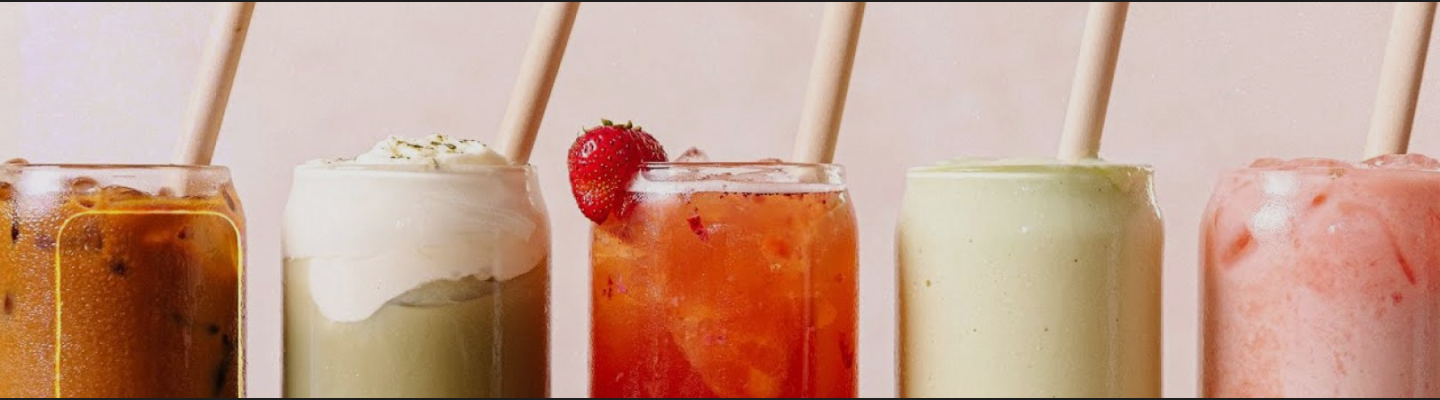
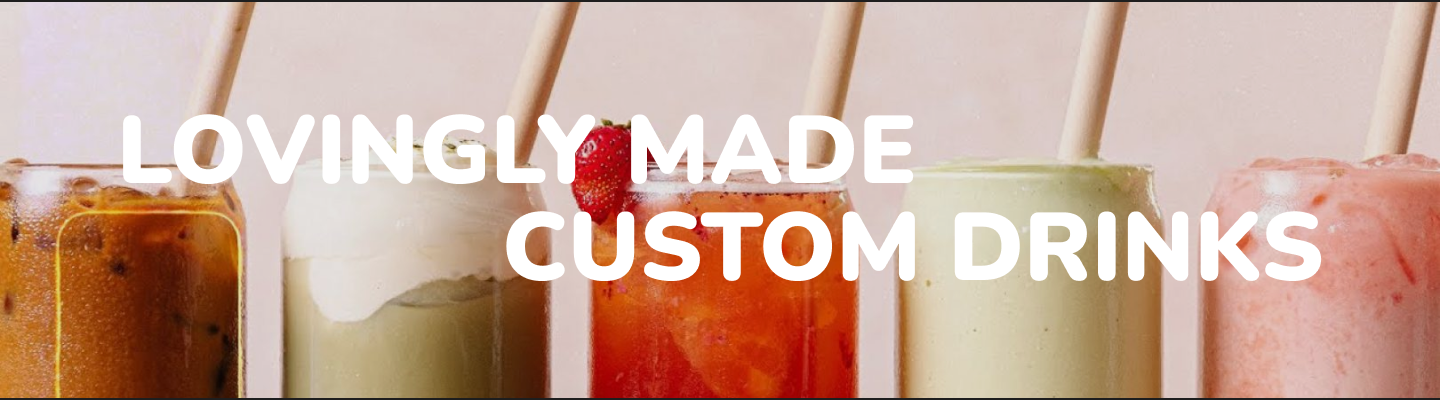
update menu screen

Changed region(s): [[0.3438, 0.51, 0.9375, 0.72], [0.0625, 0.27, 0.6562, 0.48]]

diff --git a/src/pages/Menu.js b/src/pages/Menu.js
@@ -1,9 +1,42 @@
 import styles from '../styles/Menu.module.css'
+import { boba } from '../data/boba'
+
+// COMPONENTS
+import NavBar from '../components/NavBar'
+
+// ASSETS
+import headerImg from '../images/menu/header-img.png'
+import headerDesign from '../images/menu/bg.png'
+import drinkPink from '../images/menu/drink-pink.png'
+import drinkGreen from '../images/menu/drink-green.png'
+import drinkYellow from '../images/menu/drink-yellow.png'
+import Drink from '../components/Drink'
 
 export default function Menu() {
+    const drinks = [drinkPink, drinkGreen, drinkYellow];
+
     return (
         <>
-            <h1>Menu</h1>
+            <NavBar />
+            <div className={styles.menu_container}>
+                <div className={styles.img_container}>
+                    <img src={headerImg} alt='header-img' />
+                    <img src={headerDesign} alt='header-design-img' />
+                </div>
+                <div className={styles.drinks_container}>
+                    {boba.map((data, index) => {
+                        return (
+                            <Drink 
+                                key={index}
+                                index={index}
+                                name={data.name}
+                                desc={data.description}
+                                image={drinks[index]}
+                            />
+                        )
+                    })}
+                </div>
+            </div>
         </>
     )
 }

diff --git a/src/components/Drink/index.js b/src/components/Drink/index.js
@@ -1,0 +1,31 @@
+import styles from './Drink.module.css'
+
+export default function Drink({name, desc, image, index}) {
+    return (
+        <div 
+            className={styles.drink} 
+            style={{ backgroundColor: 
+                index === 0 ? '#FFDF98' :
+                index === 1 ? '#FEC7DB' :
+                index === 2 ? '#B6E2F2' : '#FFDF98'
+            }}
+        >
+            <img src={image} alt={name} />
+            <h3 
+                style={{ color: 
+                    index === 0 ? '#F0BF54' :
+                    index === 1 ? '#E194B0' :
+                    index === 2 ? '#9EC3D0' : '#F0BF54'
+                }}
+            >{name}</h3>
+            <p>{desc}</p>
+            <button 
+                style={{ backgroundColor: 
+                    index === 0 ? '#F0BF54' :
+                    index === 1 ? '#E194B0' :
+                    index === 2 ? '#9EC3D0' : '#F0BF54'
+                }}
+            >SELECT</button>
+        </div>
+    )
+}

diff --git a/src/components/Drink/Drink.module.css b/src/components/Drink/Drink.module.css
@@ -1,0 +1,26 @@
+.drink {
+    padding: 50px 40px;
+    width: 400px;
+    height: 640px;
+    border: 2px solid #1E1E1E;
+    background: var(--color-lightyellow);
+    text-align: center;
+}
+.drink img {
+    width: 100%;
+    margin-top: -110px;
+}
+.drink h3 {
+    margin-top: 20px;
+    font-size: 36px;
+    font-weight: 900;
+    color: var(--color-shadedyellow);
+}
+.drink button {
+    margin-top: 50px;
+    font-size: 16px;
+    font-weight: 600;
+    padding: 13px 45px;
+    border: 2px solid #1E1E1E;
+    background: var(--color-shadedyellow);
+}

diff --git a/src/styles/Menu.module.css b/src/styles/Menu.module.css
@@ -1,0 +1,27 @@
+.menu_container {
+
+}
+.img_container {
+    display: flex;
+    flex-direction: column;
+    position: relative;
+}
+.img_container img {
+    width: 100%;
+}
+.img_container img:first-of-type {
+    height: 400px;
+}
+.img_container img:last-of-type {
+    margin-top: -1px;
+    position: absolute;
+    top: 400px;
+    z-index: -1;
+}
+
+.drinks_container {
+    padding: 200px 80px 80px;
+    display: flex;
+    justify-content: space-evenly;
+    gap: 45px;
+}

diff --git a/src/components/NavBar/index.js b/src/components/NavBar/index.js
@@ -2,7 +2,7 @@ import { Link, useLocation } from 'react-router-dom'
 import styles from './NavBar.module.css'
 
 // ASSETS
-import cart from '../../images/menu/cart.svg'
+import cart from '../../images/icons/cart.svg'
 
 export default function NavBar() {
     const { pathname } = useLocation();
